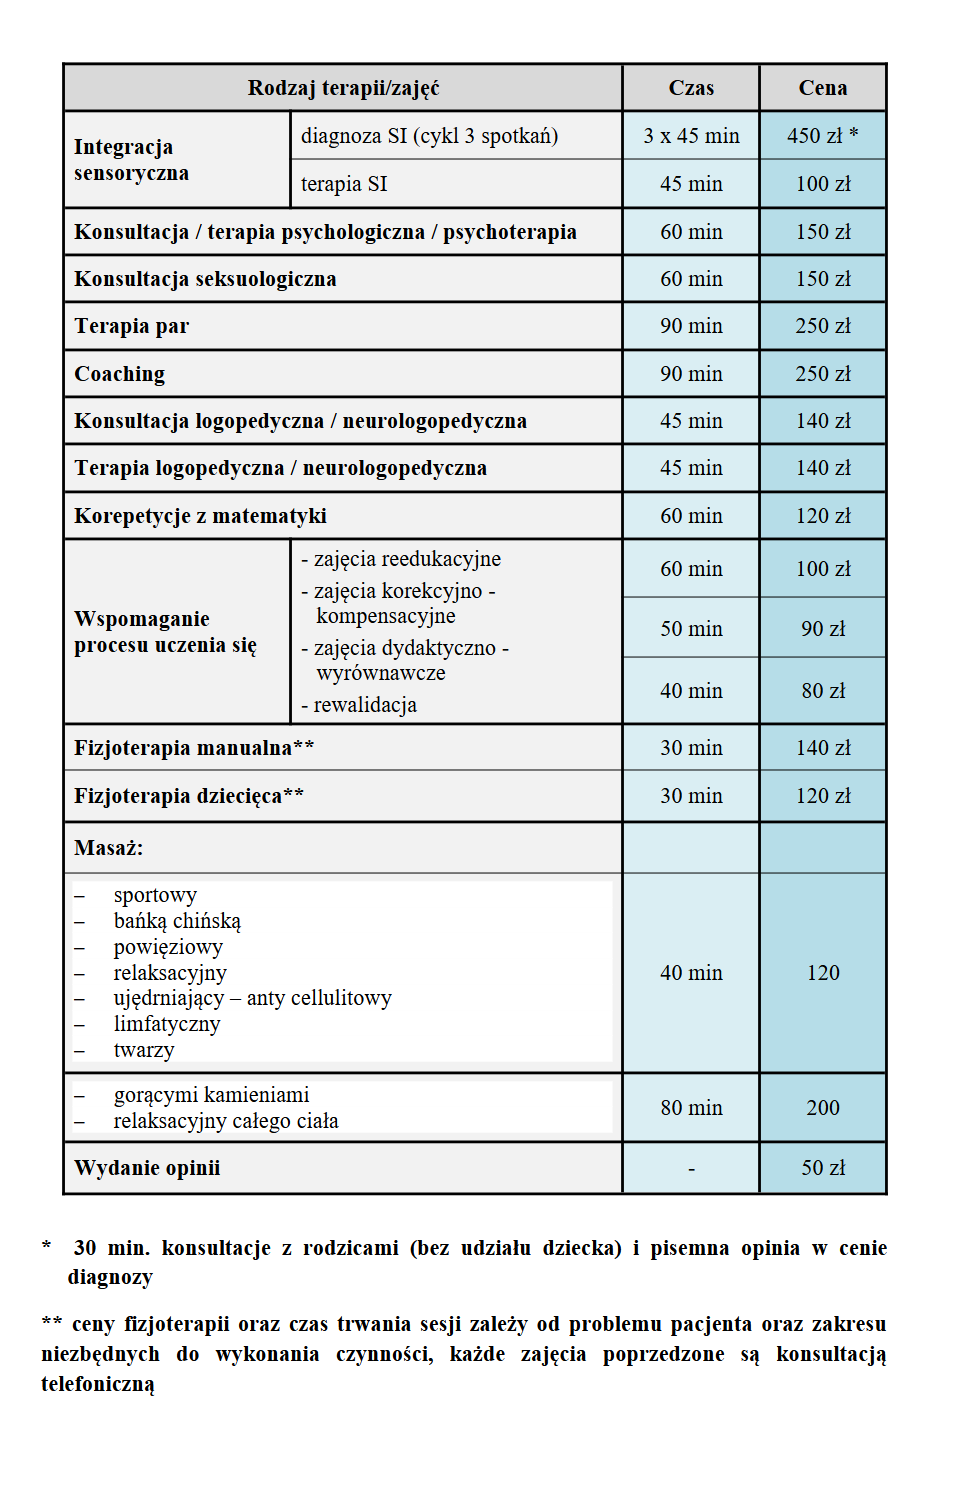
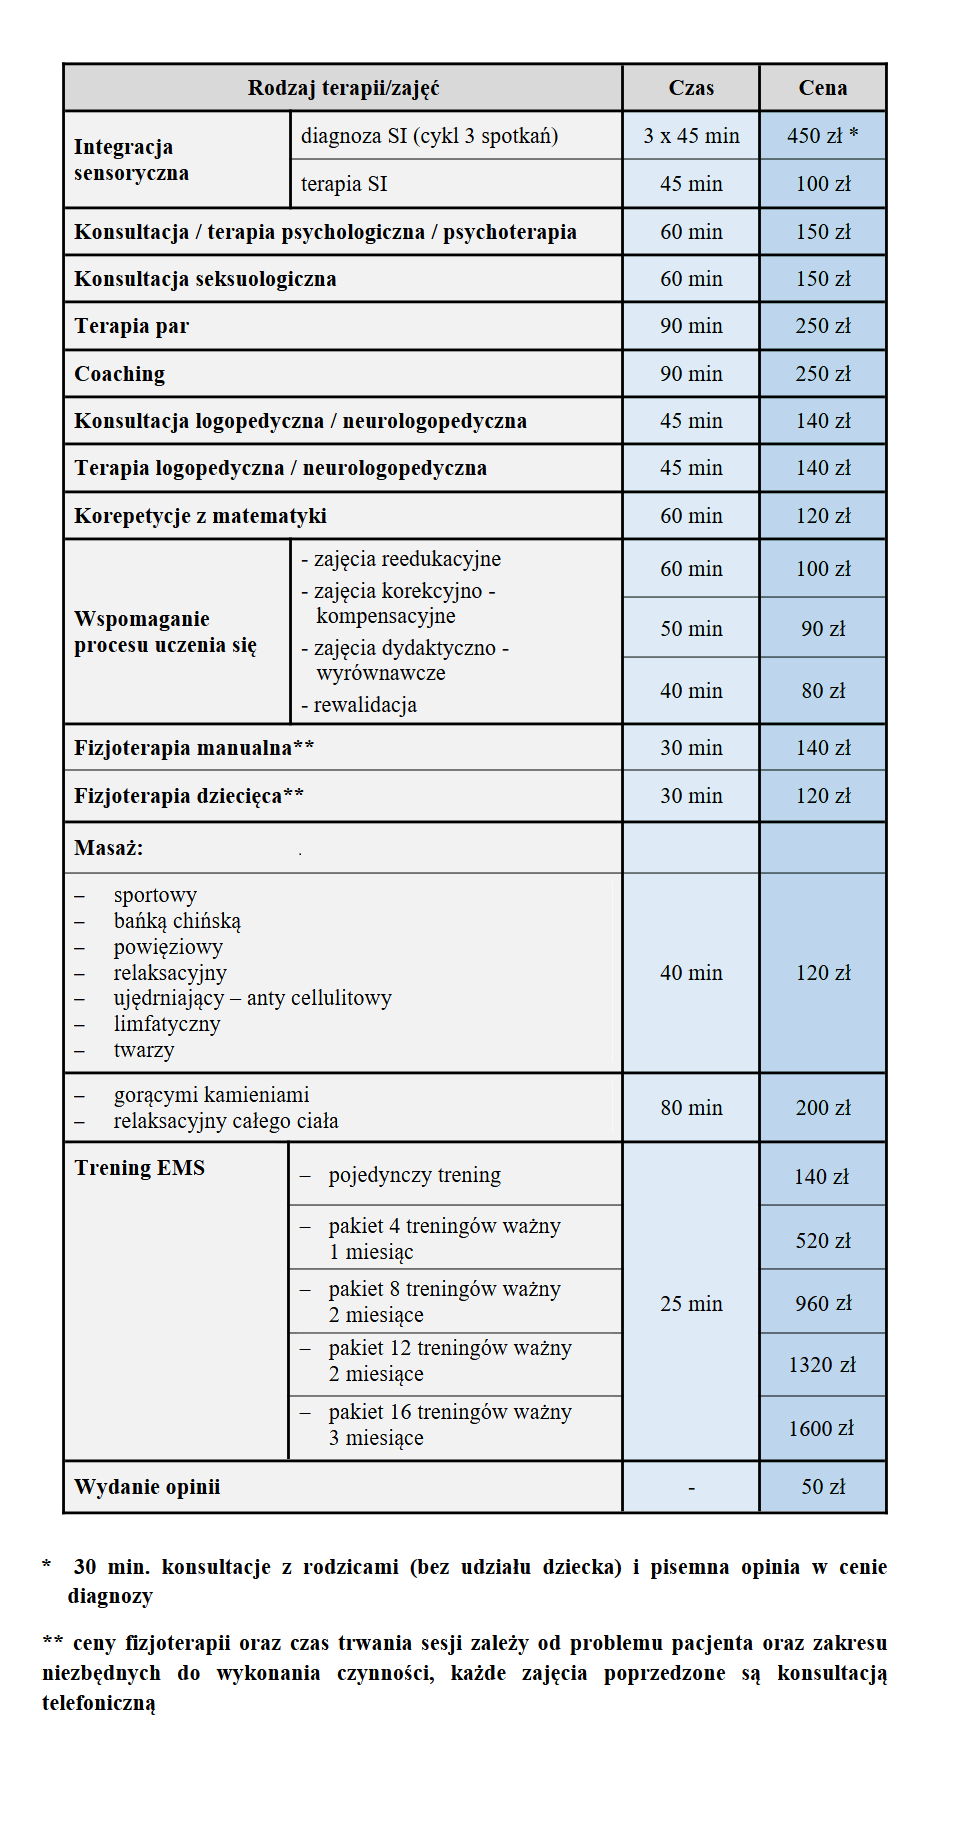
EMS, Łukasz, mirror changes

Changed region(s): [[0.0311, 0.0307, 0.9317, 0.9519], [0.6832, 0.6449, 0.7453, 0.6756]]

diff --git a/templates/strona_przedszkole/specialization_list.html b/templates/strona_przedszkole/specialization_list.html
@@ -8,7 +8,7 @@
     <title>Gabinet Terapii Dziecięcej AMINI - Specjalizacje</title>
     <link rel="stylesheet" href="https://stackpath.bootstrapcdn.com/bootstrap/4.4.1/css/bootstrap.min.css"
     integrity="sha384-Vkoo8x4CGsO3+Hhxv8T/Q5PaXtkKtu6ug5TOeNV6gBiFeWPGFN9MuhOf23Q9Ifjh" crossorigin="anonymous">
-    <link rel="icon" type="image/x-icon" href="/static/img/logoamini.png">
+    <link rel="icon" type="image/x-icon" href="/static/img/logoamini2.png">
     <link rel="preconnect" href="https://fonts.gstatic.com">
     <link href="https://fonts.googleapis.com/css2?family=Lato&display=swap" rel="stylesheet">
 
@@ -316,6 +316,49 @@
                                     <p><span><b>zapraszamy, nasz terapeuta porozmawia z Tobą o tym, co się dzieje i jak można pomóc dziecku!</b></span></p>
                                 </div>
                             </div>
+                        </div>
+                    </div>
+                    <div class="row">
+                        <div class="row-body">
+                            <div class="column">
+                                <div class="text-justify" style="padding: 10px 10px">
+                                    <h3><b>Trening EMS</b></h3>
+                                    <hr>
+                                    <p style="text-indent: 40px;">Trening EMS (Electrical Muscle Stimulation) - jest to innowacyjna metoda treningowa, która wykorzystuje impulsy elektryczne do stymulacji mięśni, angażująca wszystkie partie mięśniowe jednocześnie (w tym mięśnie głębokie), która w efektywny sposób pomaga osiągnąć cele takie jak:</p>
+                                    <ul style="margin-left: 35px;">
+                                        <li>szybka redukcja tkanki tłuszczowej i cellulitu,</li>
+                                        <li>ujędrnienie i poprawa napięcia skóry,</li>
+                                        <li>budowa masy mięśniowej,</li>
+                                        <li>poprawa kondycji i postawy ciała,</li>
+                                        <li>zwiększenie wytrzymałości i wydolności,</li>
+                                        <li>zmniejszenie bólu pleców,</li>
+                                        <li>profilaktyka przed kontuzjami.</li>
+                                    </ul>
+                                    <p>Trening EMS stanowi innowacyjną alternatywę dla tradycyjnych metod treningowych, oferując szereg korzyści dla osób pragnących poprawić swoją kondycję fizyczną i sylwetkę.</p>
+                                    <p><span><b>Zalety treningu EMS:</b></span></p>
+                                    <ol style="margin-left: 35px;">
+                                        <li>Skuteczność: Trening EMS umożliwia aktywację większej liczby mięśni w porównaniu z tradycyjnymi ćwiczeniami na siłowni, co przekłada się na szybsze rezultaty.</li>
+                                        <li>Oszczędność czasu: Sesje treningowe EMS są krótsze niż tradycyjne treningi siłowe, ponieważ jednocześnie angażują wiele grup mięśniowych.</li>
+                                        <li>Ochrona stawów: Ze względu na to, że trening EMS angażuje mięśnie bez konieczności używania ciężarów, jest łagodniejszy dla stawów, co może być korzystne dla osób z problemami zdrowotnymi.</li>
+                                        <li>Poprawa siły i wytrzymałości: Regularne treningi EMS prowadzą do wzrostu siły mięśniowej i poprawy wytrzymałości, co ma korzystny wpływ na ogólną sprawność fizyczną.</li>
+                                        <li>Dostosowanie do potrzeb: Trening EMS może być dostosowany do indywidualnych potrzeb i celów treningowych, dzięki różnym programom treningowym i intensywności impulsów elektrycznych.</li>
+                                        <li>Redukcja tkanki tłuszczowej: Badania sugerują, że trening EMS może pomóc w redukcji tkanki tłuszczowej, co jest korzystne dla osób dążących do utraty wagi.</li>
+                                        <li>Poprawa postawy ciała: Dzięki aktywacji wielu mięśni, trening EMS może pomóc w poprawie postawy ciała poprzez wzmocnienie mięśni odpowiedzialnych za utrzymanie prawidłowej sylwetki.</li>
+                                        <li>Rehabilitacja: W niektórych przypadkach trening EMS może być wykorzystywany jako narzędzie w procesie rehabilitacji po urazach, wspomagając regenerację i odbudowę mięśni.</li>
+                                        <li>Trening EMS polega na wykonywaniu prostych ćwiczeń w specjalnej kamizelce z wbudowanymi elektrodami, które przekazują impulsy elektryczne bezpośrednio do mięśni, co powoduje ich skurcze, dlatego tę formę aktywności mogą wybrać osoby bez względu na wiek, płeć oraz poziom sprawności fizycznej.</li>
+                                    </ol>
+                                    <p><span><b>Dla kogo przeznaczony jest trening EMS?</b></span></p>
+                                    <ol style="margin-left: 35px;">
+                                        <li>Osoby pragnące poprawić sylwetkę: Trening EMS może być skuteczną metodą dla osób dążących do redukcji tkanki tłuszczowej, zwiększenia masy mięśniowej oraz poprawy ogólnej sylwetki ciała.</li>
+                                        <li>Osoby o ograniczonym czasie: Osoby prowadzące zabiegany tryb życia, które mają ograniczony czas na regularne ćwiczenia, mogą skorzystać z treningu EMS ze względu na jego krótkie, ale intensywne sesje.</li>
+                                        <li>Sportowcy: Zarówno zawodowi sportowcy, jak i amatorzy, mogą korzystać z treningu EMS jako uzupełnienia swojego treningu, aby zwiększyć siłę, wytrzymałość i osiągi w swojej dyscyplinie sportowej.</li>
+                                        <li>Osoby starsze: Starsze osoby mogą znaleźć w treningu EMS skuteczną metodę utrzymania siły mięśniowej i mobilności, co może przyczynić się do poprawy jakości życia i zmniejszenia ryzyka upadków oraz urazów.</li>
+                                        <li>Osoby z ograniczeniami zdrowotnymi: Ze względu na łagodne obciążenie stawów, trening EMS może być bezpieczną opcją dla osób z problemami zdrowotnymi, takimi jak problemy z kręgosłupem czy stawami.</li>
+                                        <li>Osoby po urazach: Osoby przechodzące proces rehabilitacji po urazach mogą znaleźć w treningu EMS narzędzie do regeneracji mięśni i poprawy siły, bez ryzyka dodatkowego obciążenia urazowemu obszarowi ciała.</li>
+                                        <li>Osoby pragnące poprawić postawę ciała: Trening EMS może być skutecznym narzędziem dla osób dążących do poprawy postawy ciała poprzez wzmocnienie mięśni odpowiedzialnych za utrzymanie prawidłowej sylwetki.</li>
+                                        <li>Osoby poszukujące urozmaicenia treningu: Dla tych, którzy chcą urozmaicić swoje treningi i wypróbować nowe metody, trening EMS może być ciekawą alternatywą, zapewniającą różnorodność w programie treningowym.</li>
+                                    </ol>
+                                </div>
                             </div>
                         </div>
                     </div>

diff --git a/templates/strona_przedszkole/team_member_list.html b/templates/strona_przedszkole/team_member_list.html
@@ -3,12 +3,12 @@
 <head>
     <meta charset="UTF-8">
     <meta name="viewport" content="width=device-width, initial-scale=1.0">
-    <meta http-equiv="X-UA-Compatible" content="ie=edge">'
+    <meta http-equiv="X-UA-Compatible" content="ie=edge">
     <meta name="keywords" content="gabinet amini, gabinet dziecięcy, gabinet terapii, gabinet dzieciecy, gabinet terapii dziecęcej, gabinet terapii dziececej, gabinet terapii dzieci, gabinet, amini wieliszew, amini, amini gabinet terapii dziecęcej, amini gabinet terapii, gabinet terapii dziececej warszawa, gabinet terapii dziececej wieliszew, gabinet terapii dziececej legionowo, gabinet terapii dziececej radzymin, gabinet terapii dziececej serock, gabinet terapii dziececej nowy dwor mazowiecki, gabinet terapii dziececej wołomin"/>
     <title>Gabinet Terapii Dziecięcej AMINI - Zespół</title>
     <link rel="stylesheet" href="https://stackpath.bootstrapcdn.com/bootstrap/4.4.1/css/bootstrap.min.css"
     integrity="sha384-Vkoo8x4CGsO3+Hhxv8T/Q5PaXtkKtu6ug5TOeNV6gBiFeWPGFN9MuhOf23Q9Ifjh" crossorigin="anonymous">
-    <link rel="icon" type="image/x-icon" href="/static/img/logoamini.png">
+    <link rel="icon" type="image/x-icon" href="/static/img/logoamini2.png">
     <link rel="preconnect" href="https://fonts.gstatic.com">
     <link href="https://fonts.googleapis.com/css2?family=Lato&display=swap" rel="stylesheet">
 
@@ -72,7 +72,7 @@
         </div>
     </nav>
     <main>
-        <section id="team" class="scroll-fix">
+        <section id="team">
             <div class="jumbotron">
                 <div class="wrapper">
                     <h2>Zespół</h2>
@@ -311,10 +311,25 @@ Praca nad sobą jest moją pasją i powołaniem. Odbyłam wiele kursów i szkole
                             </div>
                         </div>
                     </div>
+                    <div class="row">
+                        <div class="row-body">
+                            <div class="column">
+                                <h3><span class="header"><b>Łukasz Orłowski</b></span></h3>
+                                <hr>
+                                <p>
+                                <span class="text">Certyfikowany trener personalny EMS. W AMINI pomogę Wam w doskonaleniu Waszych sylwetek i zadbam pełen komfort podczas 25-minutowego treningu EMS.</span>
+                                <span class="text">Więcej informacji o treningu EMS znajdziesz <a href="/specjalizacje">tutaj</a>.</span>
+                                </p>
+                            </div>
+                            <div class="column2">
+                                <img class="image1" src="static/img/team/Łukasz.png">
+                            </div>
+                        </div>
+                    </div>
                 </div>
             </div>
             <div class="cookie-container" id="cookieContainer">
-                <p class="cookie-text">Ta strona używa plików cookie. Klikając "Akceptuj", zgadzasz się na ich użycie.</p>
+                <cookie class="cookie-text">Ta strona używa plików cookie. Klikając "Akceptuj", zgadzasz się na ich użycie.</cookie>
                 <button class="cookie-btn" id="cookieAccept">Akceptuj</button>
             </div>
         </section>
@@ -322,7 +337,6 @@ Praca nad sobą jest moją pasją i powołaniem. Odbyłam wiele kursów i szkole
     <footer>
         <p> &copy;Ofey&Bart </p>
     </footer>
-
 
     <script src="https://code.jquery.com/jquery-3.4.1.slim.min.js"
         integrity="sha384-J6qa4849blE2+poT4WnyKhv5vZF5SrPo0iEjwBvKU7imGFAV0wwj1yYfoRSJoZ+n" crossorigin="anonymous">

diff --git a/templates/strona_przedszkole/gallery_list.html b/templates/strona_przedszkole/gallery_list.html
@@ -5,10 +5,10 @@
     <meta name="viewport" content="width=device-width, initial-scale=1.0">
     <meta http-equiv="X-UA-Compatible" content="ie=edge">
     <meta name="keywords" content="gabinet amini, gabinet dziecięcy, gabinet terapii, gabinet dzieciecy, gabinet terapii dziecęcej, gabinet terapii dziececej, gabinet terapii dzieci, gabinet, amini wieliszew, amini, amini gabinet terapii dziecęcej, amini gabinet terapii, gabinet terapii dziececej warszawa, gabinet terapii dziececej wieliszew, gabinet terapii dziececej legionowo, gabinet terapii dziececej radzymin, gabinet terapii dziececej serock, gabinet terapii dziececej nowy dwor mazowiecki, gabinet terapii dziececej wołomin"/>
-    <link rel="icon" type="image/x-icon" href="/static/img/logoamini.png">
+    <link rel="icon" type="image/x-icon" href="/static/img/logoamini2.png">
     <link rel="stylesheet" href="https://stackpath.bootstrapcdn.com/bootstrap/4.4.1/css/bootstrap.min.css"
     integrity="sha384-Vkoo8x4CGsO3+Hhxv8T/Q5PaXtkKtu6ug5TOeNV6gBiFeWPGFN9MuhOf23Q9Ifjh" crossorigin="anonymous">
-    <link rel="icon" type="image/x-icon" href="/static/img/logoamini.png">
+    <link rel="icon" type="image/x-icon" href="/static/img/logoamini2.png">
     <link rel="preconnect" href="https://fonts.gstatic.com">
     <link href="https://fonts.googleapis.com/css2?family=Lato&display=swap" rel="stylesheet">
 
@@ -72,8 +72,8 @@
         </div>
     </nav>
     <main>
-        <section id="gallery_list" class="scroll-fix">
-            <div class="jumbotron jumbotron-fluid">
+        <section id="gallery_list">
+            <div class="jumbotron">
                 <h2>Galeria</h2>
                 <div class="underline"></div>
                 <div class="wrapper">

diff --git a/templates/strona_przedszkole/contact_list.html b/templates/strona_przedszkole/contact_list.html
@@ -3,12 +3,12 @@
 <head>
     <meta charset="UTF-8">
     <meta name="viewport" content="width=device-width, initial-scale=1.0">
-    <meta http-equiv="X-UA-Compatible" content="ie=edge">'
+    <meta http-equiv="X-UA-Compatible" content="ie=edge">
     <meta name="keywords" content="gabinet amini, gabinet dziecięcy, gabinet terapii, gabinet dzieciecy, gabinet terapii dziecęcej, gabinet terapii dziececej, gabinet terapii dzieci, gabinet, amini wieliszew, amini, amini gabinet terapii dziecęcej, amini gabinet terapii, gabinet terapii dziececej warszawa, gabinet terapii dziececej wieliszew, gabinet terapii dziececej legionowo, gabinet terapii dziececej radzymin, gabinet terapii dziececej serock, gabinet terapii dziececej nowy dwor mazowiecki, gabinet terapii dziececej wołomin"/>
     <title>Gabinet Terapii Dziecięcej AMINI - Kontakt</title>
     <link rel="stylesheet" href="https://stackpath.bootstrapcdn.com/bootstrap/4.4.1/css/bootstrap.min.css"
     integrity="sha384-Vkoo8x4CGsO3+Hhxv8T/Q5PaXtkKtu6ug5TOeNV6gBiFeWPGFN9MuhOf23Q9Ifjh" crossorigin="anonymous">
-    <link rel="icon" type="image/x-icon" href="/static/img/logoamini.png">
+    <link rel="icon" type="image/x-icon" href="/static/img/logoamini2.png">
     <link rel="preconnect" href="https://fonts.gstatic.com">
     <link href="https://fonts.googleapis.com/css2?family=Lato&display=swap" rel="stylesheet">
 
@@ -72,7 +72,7 @@
         </div>
     </nav>
     <main>
-        <section id="contact_list" class="scroll-fix">
+        <section id="contact_list">
             <div class="jumbotron">
                 <h2>Kontakt</h2>
                 <div class="underline"></div>

diff --git a/templates/strona_przedszkole/index.html b/templates/strona_przedszkole/index.html
@@ -6,7 +6,7 @@
     <meta http-equiv="X-UA-Compatible" content="ie=edge">
     <meta name="keywords" content="gabinet amini, gabinet dziecięcy, gabinet terapii, gabinet dzieciecy, gabinet terapii dziecęcej, gabinet terapii dziececej, gabinet terapii dzieci, gabinet, amini wieliszew, amini, amini gabinet terapii dziecęcej, amini gabinet terapii, gabinet terapii dziececej warszawa, gabinet terapii dziececej wieliszew, gabinet terapii dziececej legionowo, gabinet terapii dziececej radzymin, gabinet terapii dziececej serock, gabinet terapii dziececej nowy dwor mazowiecki, gabinet terapii dziececej wołomin"/>
     <title>Gabinet Terapii Dziecięcej AMINI</title>
-    <link rel="icon" type="image/x-icon" href="/static/img/logoamini.png">
+    <link rel="icon" type="image/x-icon" href="/static/img/logoamini2.png">
     <meta name="description" content="Inspiracją do utworzenia Gabinetu Terapii Dziecięcej AMINI były moje dzieci (stąd też jego nazwa, która stanowi połączenie pierwszych liter imion Amelka i Nikodem) oraz dzieci, z którymi pracuję od kilkunastu lat. Zdobyte doświadczenie, połączone z pasją, jak również wiedza pozostałych specjalistów gabinetu, stanowią doskonałą bazę do pomocy w obszarze terapeutycznym, edukacyjnym oraz psychologicznym..."/>
     <link rel="stylesheet" href="https://stackpath.bootstrapcdn.com/bootstrap/4.4.1/css/bootstrap.min.css"
     integrity="sha384-Vkoo8x4CGsO3+Hhxv8T/Q5PaXtkKtu6ug5TOeNV6gBiFeWPGFN9MuhOf23Q9Ifjh" crossorigin="anonymous">

diff --git a/templates/strona_przedszkole/price_list.html b/templates/strona_przedszkole/price_list.html
@@ -8,7 +8,7 @@
     <title>Gabinet Terapii Dziecięcej AMINI - Cennik</title>
     <link rel="stylesheet" href="https://stackpath.bootstrapcdn.com/bootstrap/4.4.1/css/bootstrap.min.css"
     integrity="sha384-Vkoo8x4CGsO3+Hhxv8T/Q5PaXtkKtu6ug5TOeNV6gBiFeWPGFN9MuhOf23Q9Ifjh" crossorigin="anonymous">
-    <link rel="icon" type="image/x-icon" href="/static/img/logoamini.png">
+    <link rel="icon" type="image/x-icon" href="/static/img/logoamini2.png">
     <link rel="preconnect" href="https://fonts.gstatic.com">
     <link href="https://fonts.googleapis.com/css2?family=Lato&display=swap" rel="stylesheet">
 
@@ -72,7 +72,7 @@
         </div>
     </nav>
     <main>
-        <section id="offer_list" class="scroll-fix">
+        <section id="offer_list">
             <div class="jumbotron">
                 <div class="wrapper">
                     <h2>Cennik</h2>

diff --git a/static/css/main.css b/static/css/main.css
@@ -705,7 +705,6 @@ ol.carousel-indicators li.active {
     font-size: 24px;
 }
 
-
 #team .text
 {
     font-family: Calibri;
@@ -809,7 +808,7 @@ ol.carousel-indicators li.active {
 #contact_list .jumbotron {
   background-image: url("../img/lime_green_background.png");
   background-size: cover;
-  z-index:  -1;
+  z-index: -1;
   box-sizing: border-box;
 }
 

diff --git a/static/css/medium.css b/static/css/medium.css
@@ -143,6 +143,11 @@
         font-size: 30px;
     }
 
+    #team h2
+    {
+        font-size: 30px;
+    }
+
     #contact h2
     {
         font-size: 30px;
